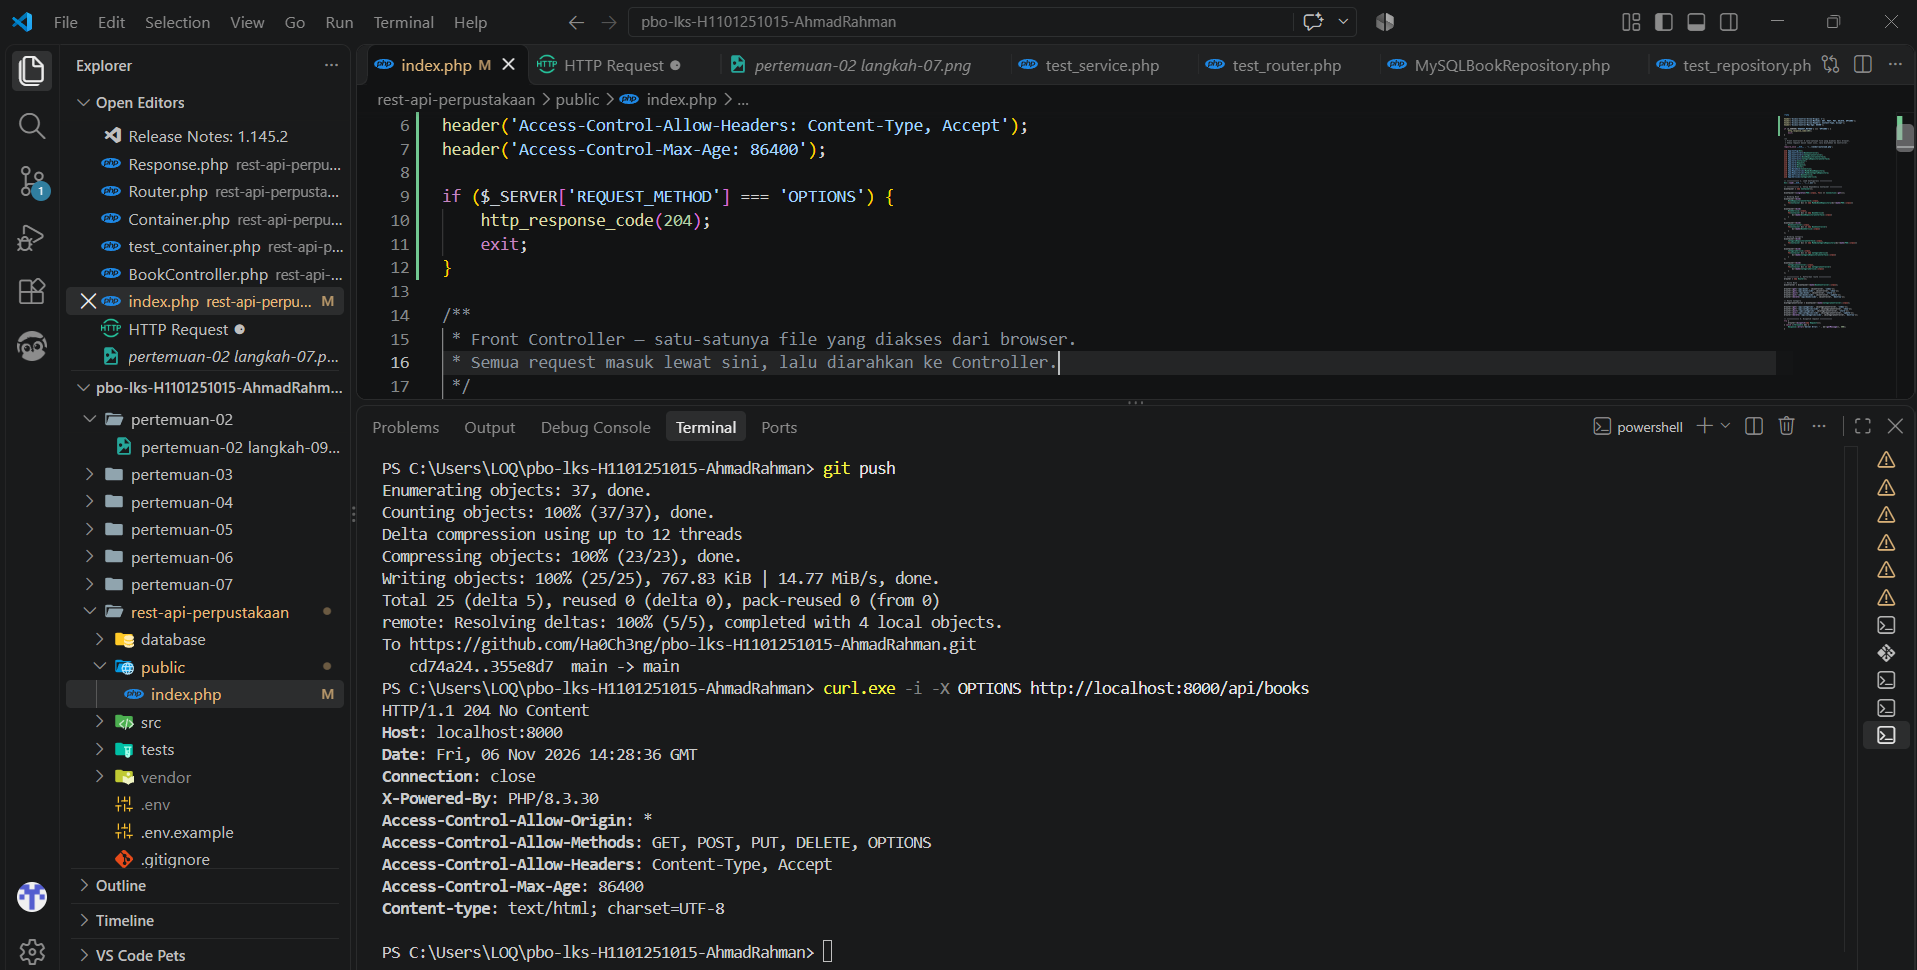
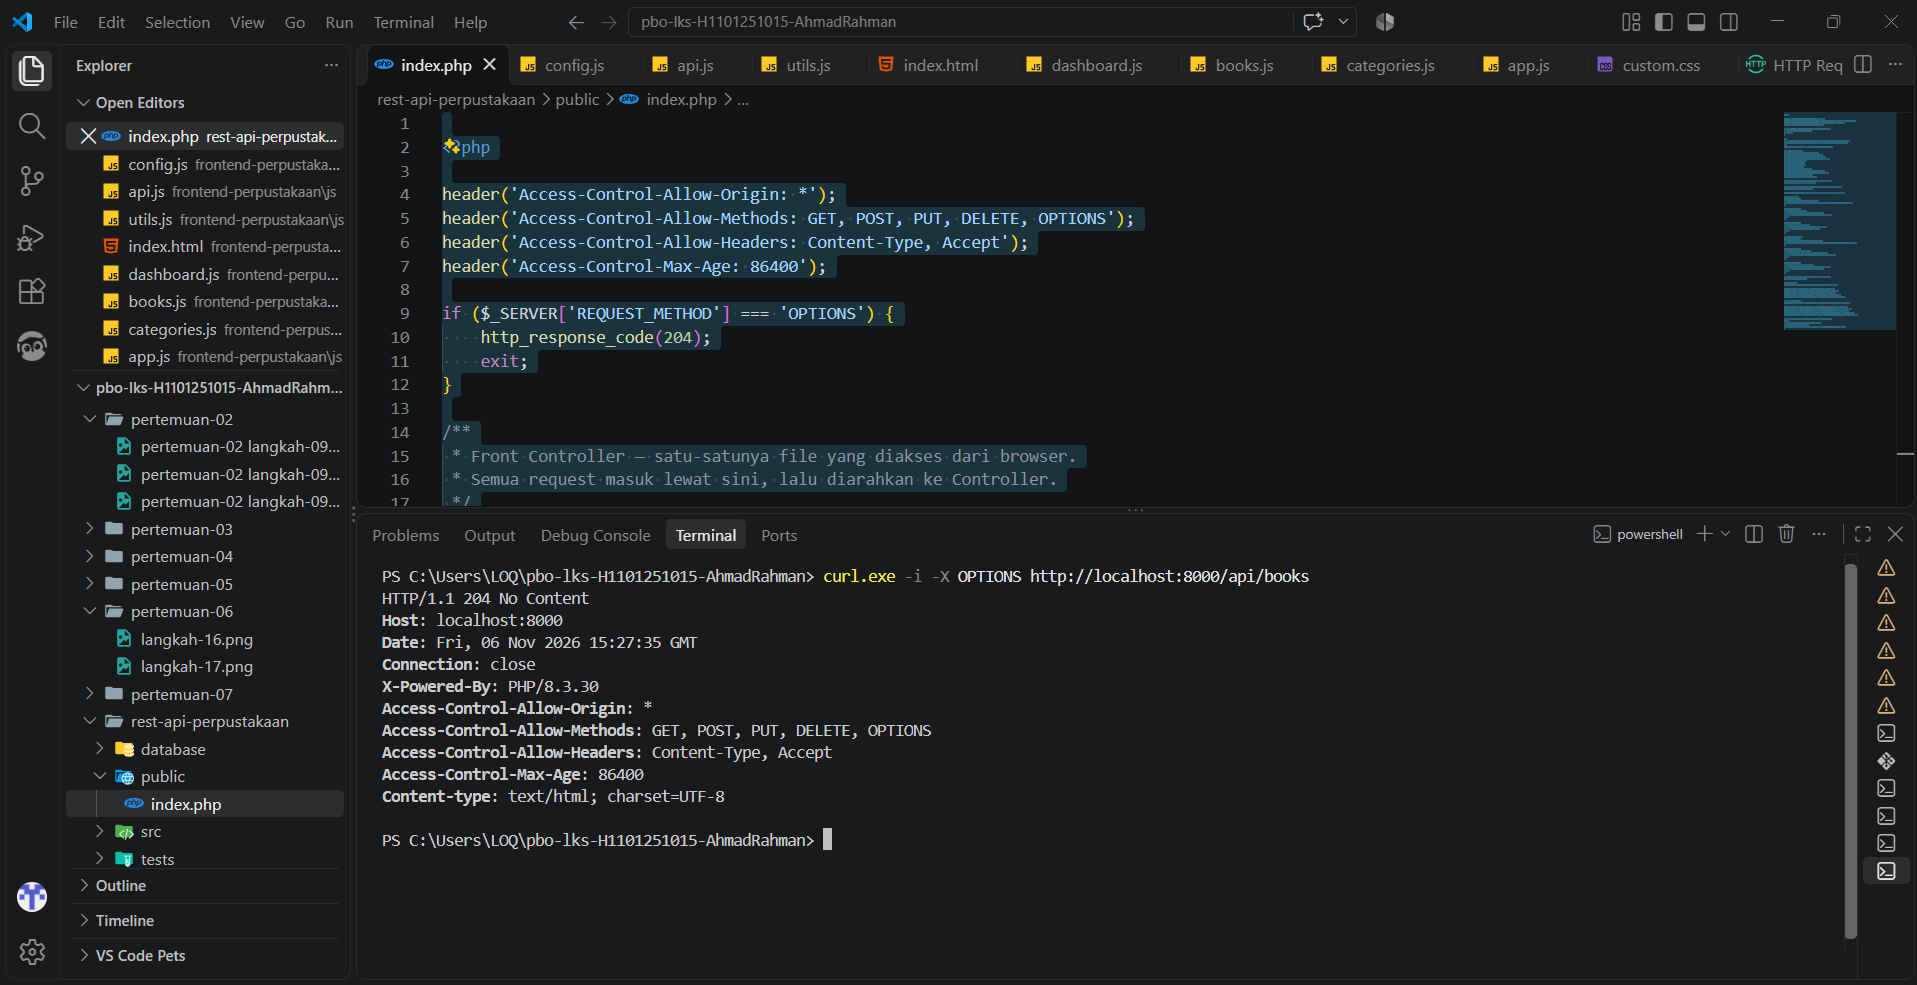
Pertemuan 7 - Finalisasi README dan Dokumentasi

diff --git a/README.md b/README.md
@@ -1,14 +1,32 @@
 # PBO LKS — Portofolio Praktikum
 
-- Nama : Ahmad Rahman
-- NIM : H1101251015
-- Kelas : A
+- Nama: Ahmad Rahman
+- NIM: H1101251015
+- Kelas: A
 
-# Daftar Pertemuan
-- [ ] Pertemuan 1 — Setup & Database
-- [ ] Pertemuan 2 — Core OOP
-- [ ] Pertemuan 3 — Framework & Routing
-- [ ] Pertemuan 4 — Testing Backend
-- [ ] Pertemuan 5 — CRUD Kategori
-- [ ] Pertemuan 6 — Frontend
-- [ ] Pertemuan 7 — Integrasi & Finalisasi
+## Deskripsi Proyek
+REST API Sistem Informasi Perpustakaan menggunakan PHP, MySQL, dan JavaScript.
+
+## Daftar Fitur
+- CRUD Buku
+- CRUD Kategori
+- Dashboard statistik
+- Integrasi frontend dengan REST API
+- Pengujian API
+- Notifikasi operasi
+
+## Daftar Pertemuan
+- [x] Pertemuan 1 — Setup & Database
+- [x] Pertemuan 2 — Core OOP
+- [x] Pertemuan 3 — Framework & Routing
+- [x] Pertemuan 4 — Testing Backend
+- [x] Pertemuan 5 — CRUD Kategori
+- [x] Pertemuan 6 — Frontend
+- [x] Pertemuan 7 — Integrasi & Finalisasi
+
+## Cara Menjalankan
+
+### Backend
+```bash
+cd rest-api-perpustakaan
+php -S localhost:8000 -t public
